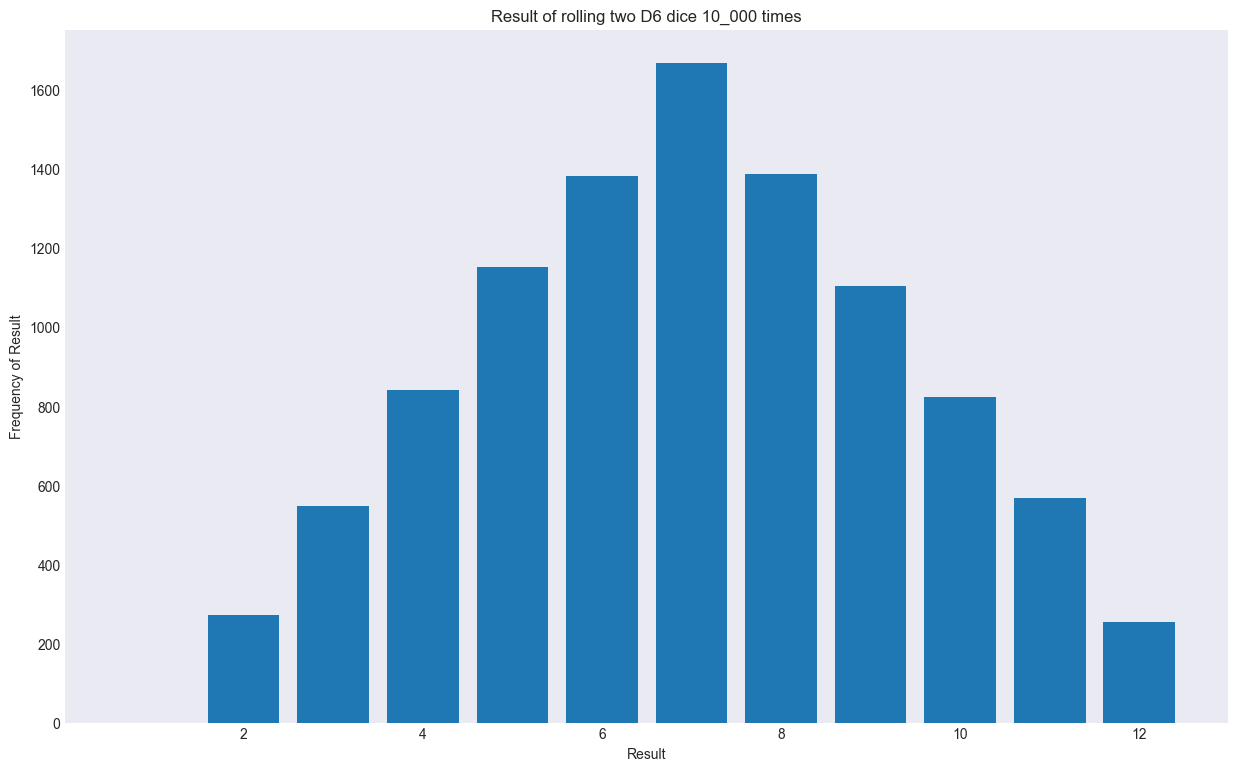
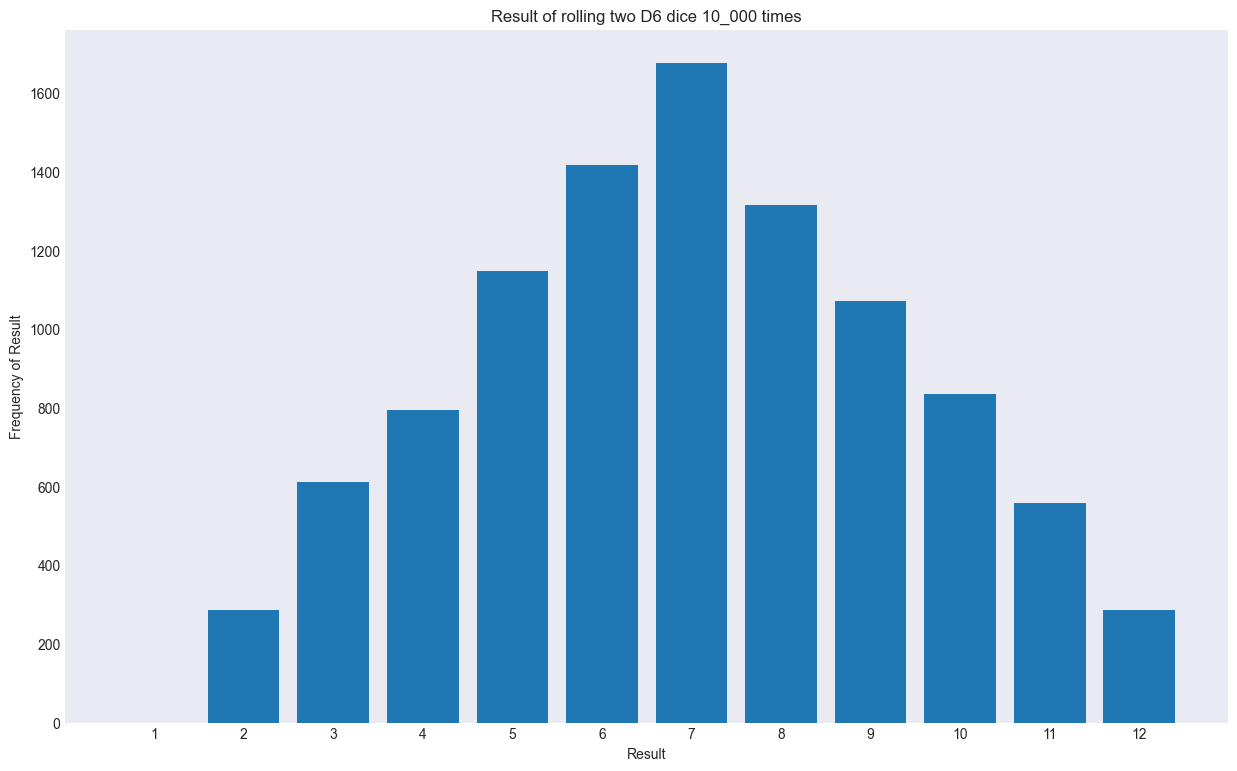
updated with tick spacing

diff --git a/chp15/rolling_dice/die_visual_matplotlib.py b/chp15/rolling_dice/die_visual_matplotlib.py
@@ -1,6 +1,6 @@
 # Try using Matplotlib to make a die-rolling visualization.
 import matplotlib.pyplot as plt
-import numpy as np
+import matplotlib.ticker as ticker
 
 from die import Die
 
@@ -28,8 +28,10 @@ fig, ax  = plt.subplots(figsize=(15,9))
 
 y_pos = frequencies
 x_values = list(range(1, max_result+1))
+tick_spacing = 1
 
 plt.bar(x_values, y_pos)
+ax.xaxis.set_major_locator(ticker.MultipleLocator(tick_spacing))
 plt.ylabel('Frequency of Result')
 plt.xlabel('Result')
 plt.title('Result of rolling two D6 dice 10_000 times')
